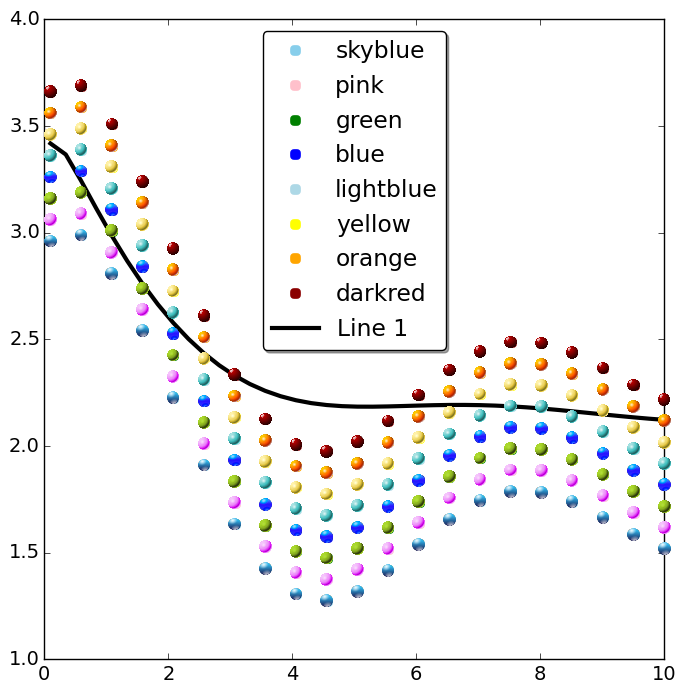
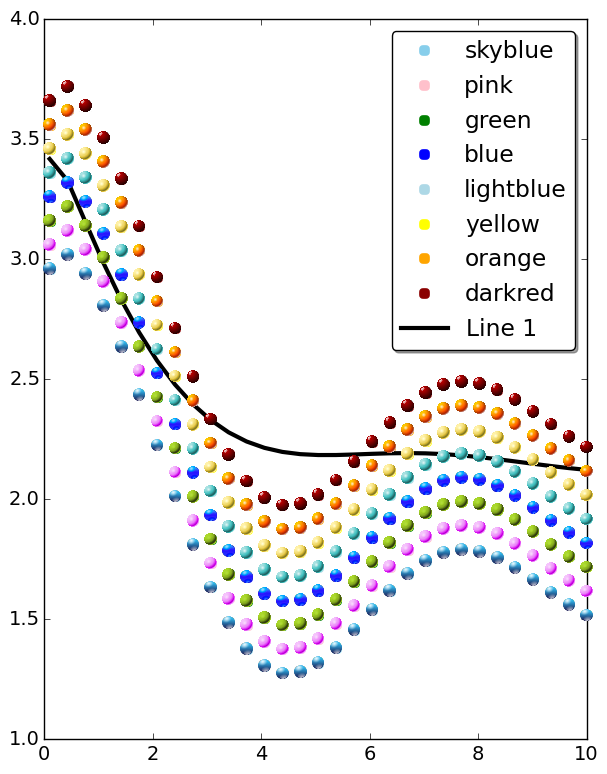
better readme

Changed region(s): [[0.0, 0.0, 1.0, 0.9986], [0.4152, 0.2118, 0.4448, 0.3329], [0.4152, 0.121, 0.4448, 0.1816]]

diff --git a/simple_example_2.py b/simple_example_2.py
@@ -4,21 +4,20 @@ import matplotlib.pyplot as plt
 import plt_esfera
 
 if __name__ == '__main__':
-  fig= plt.figure()
+  fig= plt.figure(figsize=(7,9))
   ax= fig.add_subplot(111, aspect='auto')
 
-  x= np.linspace(0.1,10,41)
+  x= np.linspace(0.1,10,31)
   y= 1.5*(1+ np.sin(x)/(.01+x))
-  y1= y[::2]
-
+  y1= y
   for c in plt_esfera.colores.values():
     y1 = y1 + .1
-    ax.plot_esfera( x[::2],y1, color=c, markersize=8, label=c)
+    ax.plot_esfera( x,y1, color=c, markersize=8, label=c)
 
   # Plot a simple "standard" line
   plt.plot(x,2+(.5+x)*y/(1+x)**2,'-k',lw=3, label='Line 1')
   # 
   plt.legend(loc='best', numpoints=1)
-  plt.savefig('simple_example_2.png')
+  plt.savefig('resources/simple_example_2.png')
   plt.show()
 

diff --git a/README.rst b/README.rst
@@ -8,7 +8,17 @@ http://matplotlib.1069221.n5.nabble.com/custom-markers-from-images-tp4166p4173.h
 
 I put this together for an easier use in a small function and added it as a method to matplotlib Axes, and I am sharing it in case somebody else finds it useful.
 
-I am sure that there is many better ways to obtain the same result, and I'll be *really* very glad to learn about it.
+I am sure that there are many better ways to obtain the same result, and I'll be *really* very glad to learn about it.
+
+What does it do?
+================
+
+A picture is worth a thousand ...
+
+.. image:: resources/simple_example_1.png
 
 
+How to use it?
+==============
 
+.. include:: simple_example_2.py
